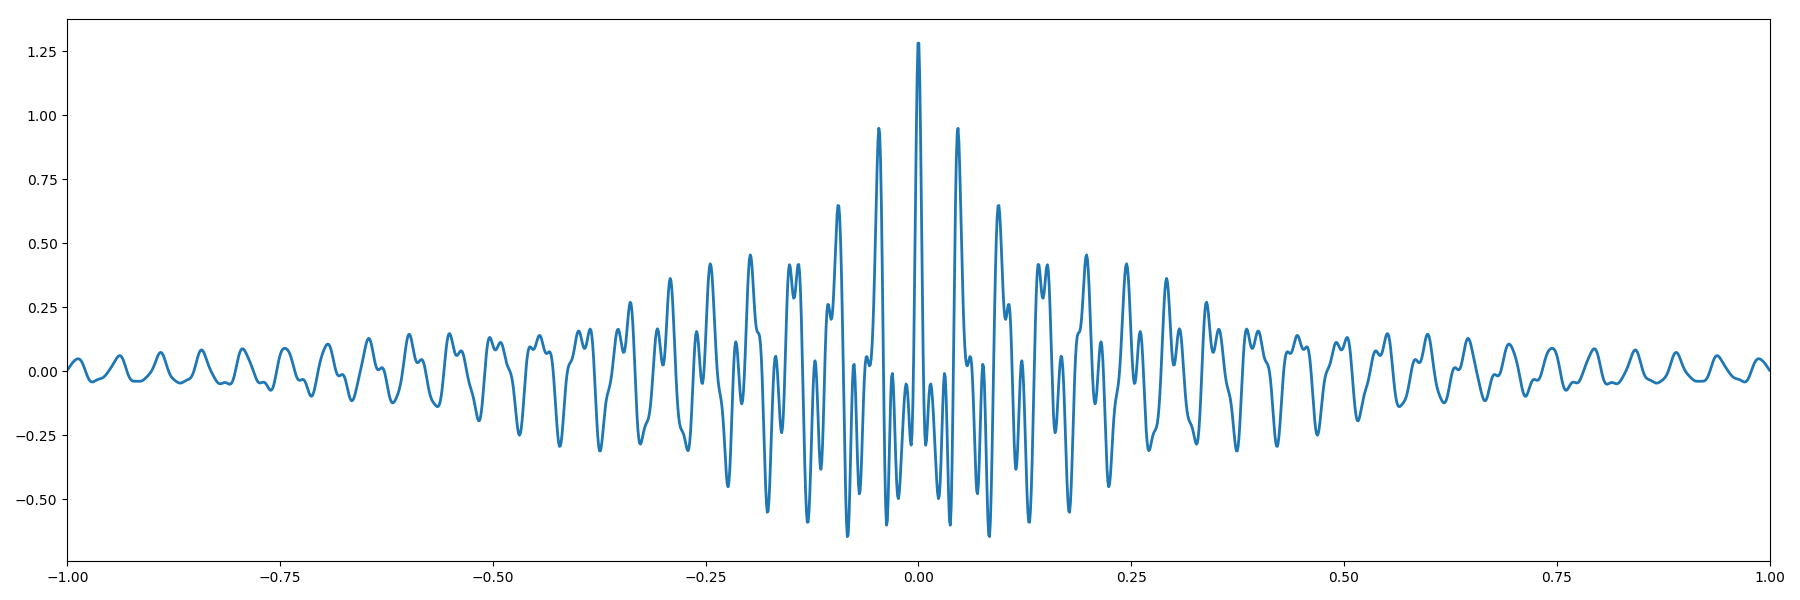
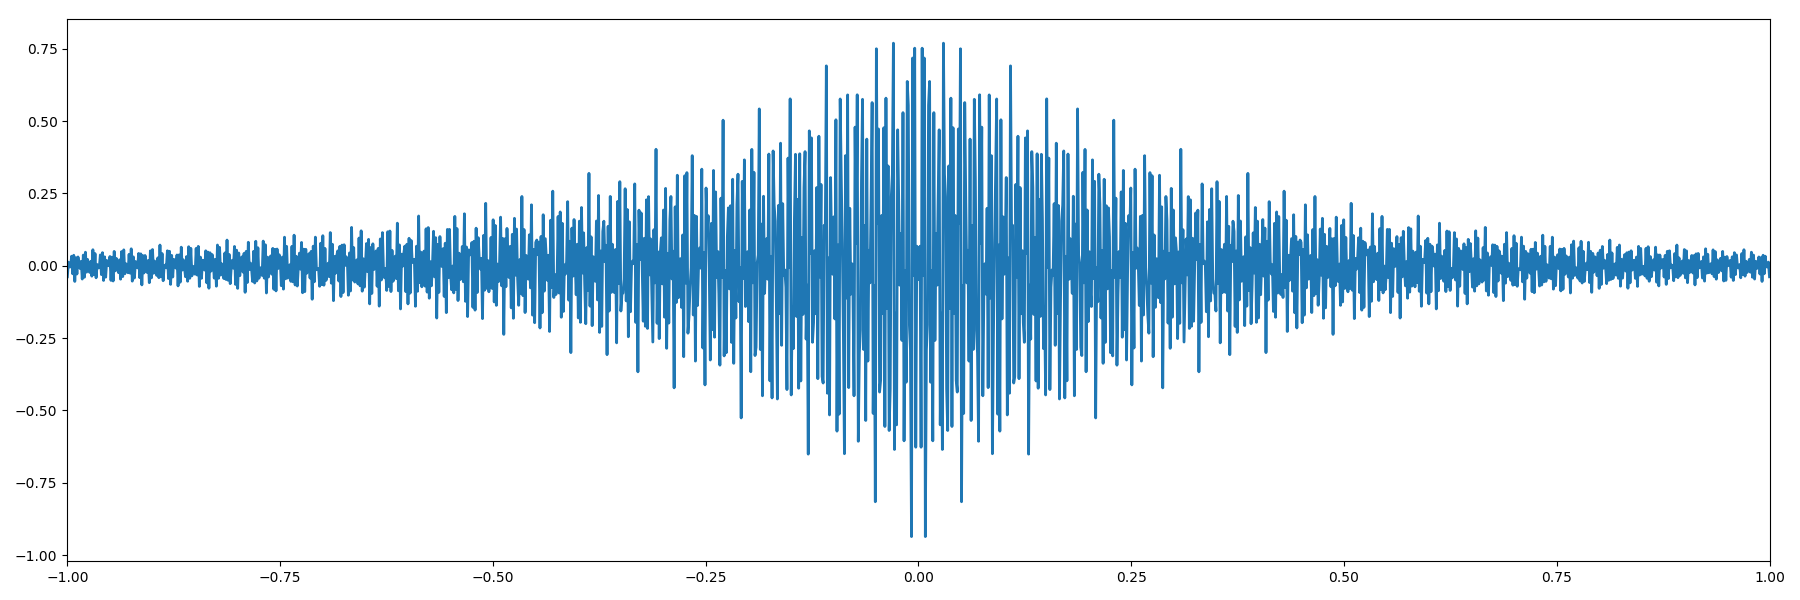
.

diff --git a/notebooks/demo_inharmonic_toy.py b/notebooks/demo_inharmonic_toy.py
@@ -16,26 +16,27 @@ reload(gpitch)
 
 
 
-gpitch.amtgp.init_settings(visible_device = '1', interactive=True) #  configure gpu usage and plotting
+gpitch.amtgp.init_settings(visible_device = '0', interactive=True) #  configure gpu usage and plotting
 
 Nc = 4 #  set kernel params
 var =  np.ones((Nc, 1))
 var = np.asarray([.5, .3, .4, .1])
 beta = 0.02
-f0 = 20.
+f0 = 440.00
 leng = np.ones((Nc, 1))
 leng = np.asarray([.4, .3, .2, .1])
 
 kern_f = gpitch.kernels.Inharmonic(input_dim=1, lengthscales=leng, variances=var, beta=beta, f0=f0)
-kern_g = gpflow.kernels.Matern32(input_dim=1, lengthscales=0.1, variance=10.)
+kern_g = gpflow.kernels.Matern32(input_dim=1, lengthscales=0.025, variance=10.)
 
 np.random.seed(1) # generate synthetic data
 noise_var = 1e-3
-N = 2000
-x = np.linspace(0, 1, N).reshape(-1,1)
+N = 1600
+x = np.linspace(0, 0.1, N).reshape(-1,1)
 Kf = kern_f.compute_K_symm(x)
 Kg = kern_g.compute_K_symm(x)
 f = np.random.multivariate_normal(np.zeros(N), Kf, 1).reshape(-1, 1)
+f /= np.max(np.abs(f))
 g = np.random.multivariate_normal(np.zeros(N), Kg, 1).reshape(-1, 1)
 mean = logistic(g) * f
 y = mean + np.sqrt(noise_var)*np.random.randn(*mean.shape)
@@ -46,12 +47,14 @@ Nc = 4
 init_leng_f =1.*np.random.rand(Nc, 1)
 init_var_f = 1.*np.random.rand(Nc, 1)
 init_beta = np.random.rand()
-init_f0 = 20.#30.*np.random.rand()
+init_f0 = 440.00 #  30.*np.random.rand()
 init_leng_g = 1.*np.random.rand()
 init_var_g = 10.*np.random.rand()
 kern1 = gpitch.kernels.Inharmonic(input_dim=1, lengthscales=init_leng_f, variances=init_var_f, beta=init_beta, f0=init_f0)
-kern2 = gpflow.kernels.Matern32(input_dim=1, lengthscales=init_leng_g, variance=init_var_g)
-m = gpitch.modgp.ModGP(x, y, kern1, kern2, x[::10].copy())
+kern2 = gpflow.kernels.Matern32(input_dim=1, lengthscales=0.05, variance=10.)
+m = gpitch.modgp.ModGP(x, y, kern_f, kern_g, x[::8].copy())
+m.q_mu2.transform = gpflow.transforms.Logistic(a=-10.0, b=10.0)
+m.q_mu1.transform = gpflow.transforms.Logistic(a=-1.0, b=1.0)
 m.kern1.fixed = True
 m.kern2.fixed = True
 m.likelihood.noise_var = noise_var
@@ -68,46 +71,28 @@ mu, var = m.predict_g(x)
 plt.plot(x, logistic(mu), 'g')
 plt.plot(x, logistic(mu + 2*np.sqrt(var)), 'g--')
 plt.plot(x, logistic(mu - 2*np.sqrt(var)), 'g--')
-plt.savefig('../figures/demo_inharmonic_toy_first_opt.png')
+plt.title('Infered functions')
+plt.savefig('../figures/demo_inharmonic_toy_opt.png')
 
-
-m.kern1.fixed = False
-m.kern2.fixed = False
-m.optimize(disp=1, maxiter=400)
-
-mu, var = m.predict_f(x)
-plt.figure()
-plt.plot(x, mu, 'C0')
-plt.plot(x, mu + 2*np.sqrt(var), 'C0--')
-plt.plot(x, mu - 2*np.sqrt(var), 'C0--')
-plt.twinx()
-mu, var = m.predict_g(x)
-plt.plot(x, logistic(mu), 'g')
-plt.plot(x, logistic(mu + 2*np.sqrt(var)), 'g--')
-plt.plot(x, logistic(mu - 2*np.sqrt(var)), 'g--')
-plt.savefig('../figures/demo_inharmonic_toy_second_opt.png')
-
-
-mu, var = m.predict_f(x)
-plt.figure()
-plt.plot(x, mu, 'C0')
-plt.plot(x, mu + 2*np.sqrt(var), 'C0--')
-plt.plot(x, mu - 2*np.sqrt(var), 'C0--')
-plt.twinx()
-mu, var = m.predict_g(x)
-plt.plot(x, logistic(mu), 'g')
-plt.plot(x, logistic(mu + 2*np.sqrt(var)), 'g--')
-plt.plot(x, logistic(mu - 2*np.sqrt(var)), 'g--')
-plt.savefig('../figures/demo_inharmonic_toy.png')
 
 plt.figure()
+plt.title('actual functions')
 plt.plot(x, f, lw=2)
 plt.twinx()
 plt.plot(x, logistic(g), 'g', lw=2)
+plt.savefig('../figures/demo_inharmonic_toy_latent_functions.png')
+
+plt.figure()
+plt.title('g functions')
+plt.plot(x, mu, 'C0')
+plt.plot(x, g, 'g', lw=2)
+plt.legend(['prediction', 'actual functions'])
+plt.twinx()
+plt.savefig('../figures/demo_inharmonic_toy_latent_functions_g.png')
 
 plt.figure()
 plt.plot(x, y, lw=2)
-
+plt.savefig('../figures/demo_inharmonic_toy_latent_data.png')
 
 x_plot = np.linspace(-1, 1, N).reshape(-1,1)
 kern_plot = kern_f.compute_K(x_plot, np.asarray(0.).reshape(-1,1)) #  plot kernel

diff --git a/gpitch/modgp.py b/gpitch/modgp.py
@@ -8,7 +8,7 @@ float_type = settings.dtypes.float_type
 
 
 class ModGP(gpflow.model.Model):
-    def __init__(self, X, Y, kern1, kern2, Z, whiten=True, minibatch_size=None):
+    def __init__(self, X, Y, kern1, kern2, Z, whiten=False, minibatch_size=None):
         gpflow.model.Model.__init__(self)
         if minibatch_size is None:
             minibatch_size = X.shape[0]
